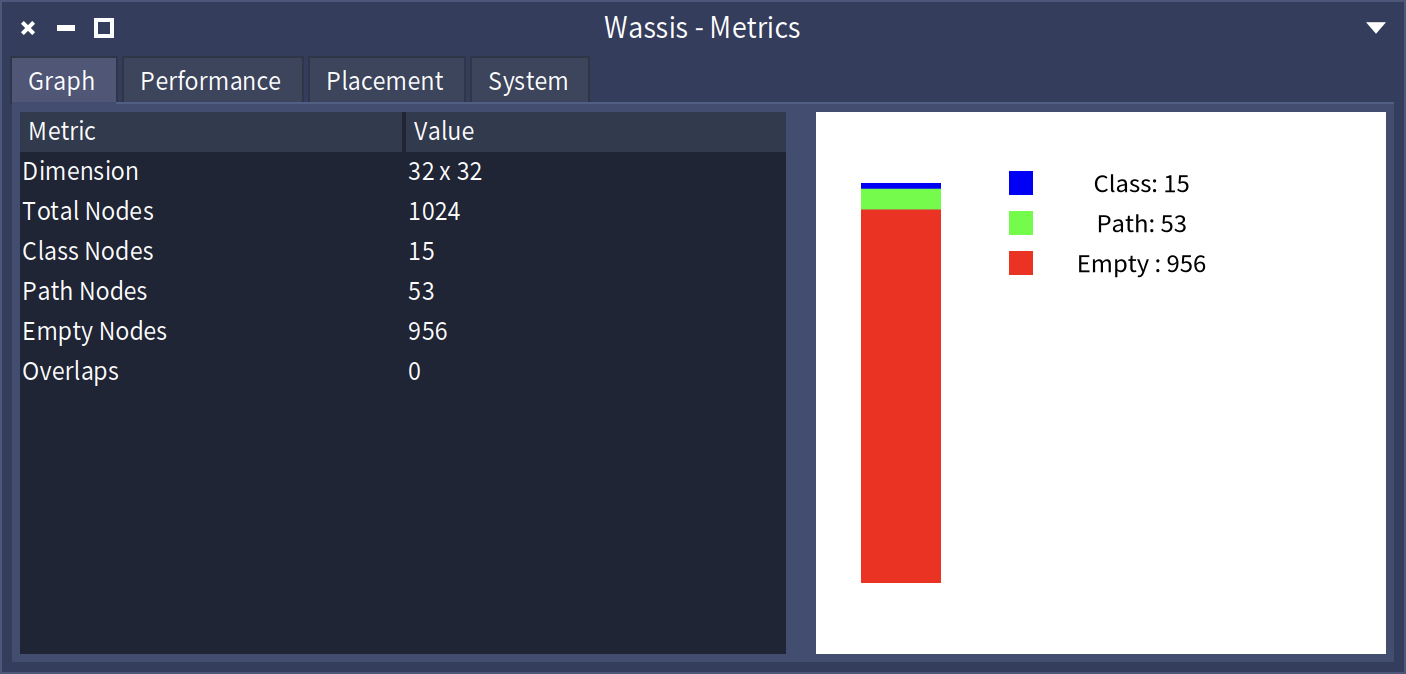
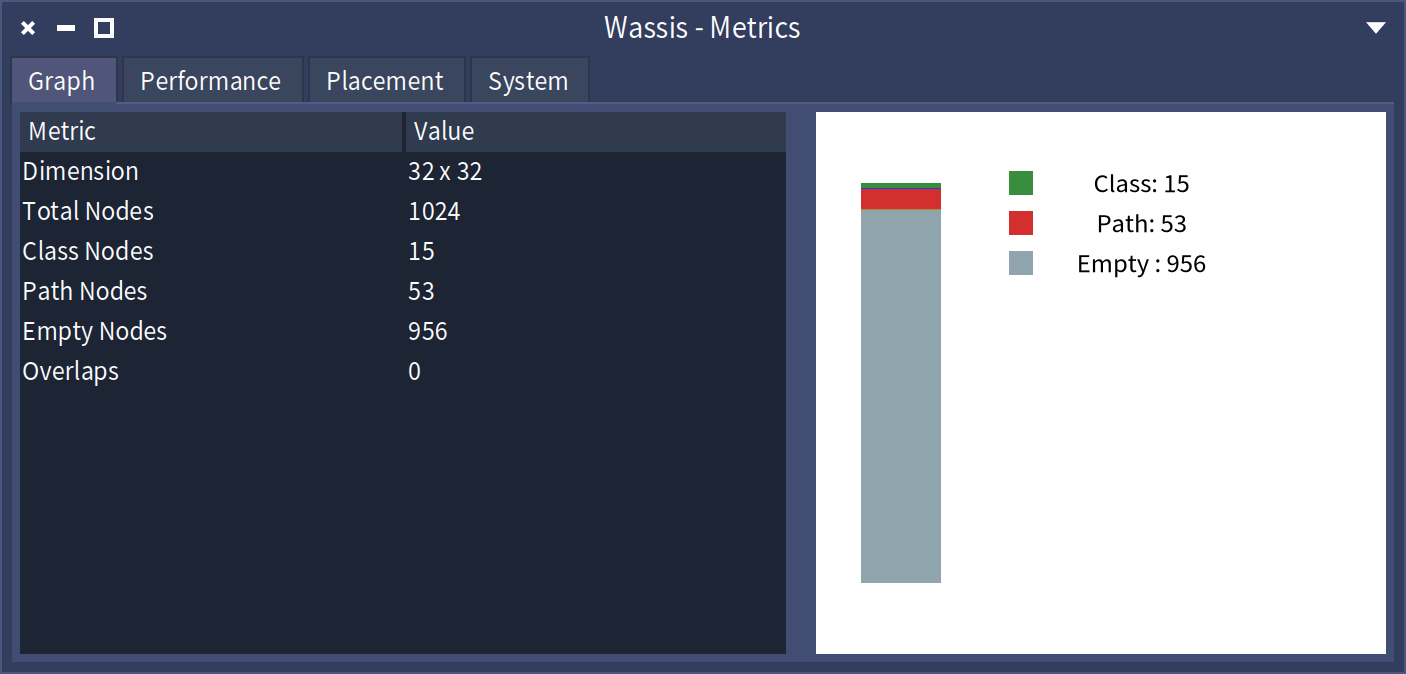
Fix: images

Changed region(s): [[0.6117, 0.2493, 0.6728, 0.8724], [0.7034, 0.2493, 0.734, 0.405]]

diff --git a/chapters/cha-implementation/tool.tex b/chapters/cha-implementation/tool.tex
@@ -78,46 +78,74 @@ The additional views include the step-by-step animation, the metrics dashboard, 
 
 \begin{figure}[ht]
     \centering
-    \begin{subfigure}[b]{0.48\textwidth}
-        \centering
-        \includegraphics[width=\textwidth]{figures/implementation/tool/graph_metrics}
-        \caption{Graph metrics panel.}
-        \label{fig:graph_metrics}
-    \end{subfigure}
-    \hfill
-    \begin{subfigure}[b]{0.48\textwidth}
-        \centering
-        \includegraphics[width=\textwidth]{figures/implementation/tool/performance_metrics}
-        \caption{Performance metrics panel.}
-        \label{fig:performance_metrics}
-    \end{subfigure}
-
-    \vspace{0.5cm}
-
-    \begin{subfigure}[b]{0.48\textwidth}
-        \centering
-        \includegraphics[width=\textwidth]{figures/implementation/tool/placement_metrics}
-        \caption{Placement metrics panel.}
-        \label{fig:placement_metrics}
-    \end{subfigure}
-    \hfill
-    \begin{subfigure}[b]{0.48\textwidth}
-        \centering
-        \includegraphics[width=\textwidth]{figures/implementation/tool/system_metrics}
-        \caption{System metrics panel.}
-        \label{fig:system_metrics}
-    \end{subfigure}
-    \caption{\wassis metrics dashboard panels.}
-    \label{fig:all_metrics}
+    \includegraphics[width=\textwidth]{figures/implementation/tool/graph_metrics}
+    \caption{Graph metrics panel.}
+    \label{fig:graph_metrics}
 \end{figure}
+
+\begin{figure}[ht]
+    \centering
+    \includegraphics[width=\textwidth]{figures/implementation/tool/performance_metrics}
+    \caption{Performance metrics panel.}
+    \label{fig:performance_metrics}
+\end{figure}
+
+\begin{figure}[ht]
+    \centering
+    \includegraphics[width=\textwidth]{figures/implementation/tool/placement_metrics}
+    \caption{Placement metrics panel.}
+    \label{fig:placement_metrics}
+\end{figure}
+
+\begin{figure}[ht]
+    \centering
+    \includegraphics[width=\textwidth]{figures/implementation/tool/system_metrics}
+    \caption{System metrics panel.}
+    \label{fig:system_metrics}
+\end{figure}
+
+% \begin{figure}[ht]
+%     \centering
+%     \begin{subfigure}[b]{0.48\textwidth}
+%         \centering
+%         \includegraphics[width=\textwidth]{figures/implementation/tool/graph_metrics}
+%         \caption{Graph metrics panel.}
+%         \label{fig:graph_metrics}
+%     \end{subfigure}
+%     \hfill
+%     \begin{subfigure}[b]{0.48\textwidth}
+%         \centering
+%         \includegraphics[width=\textwidth]{figures/implementation/tool/performance_metrics}
+%         \caption{Performance metrics panel.}
+%         \label{fig:performance_metrics}
+%     \end{subfigure}
+
+%     \vspace{0.5cm}
+
+%     \begin{subfigure}[b]{0.48\textwidth}
+%         \centering
+%         \includegraphics[width=\textwidth]{figures/implementation/tool/placement_metrics}
+%         \caption{Placement metrics panel.}
+%         \label{fig:placement_metrics}
+%     \end{subfigure}
+%     \hfill
+%     \begin{subfigure}[b]{0.48\textwidth}
+%         \centering
+%         \includegraphics[width=\textwidth]{figures/implementation/tool/system_metrics}
+%         \caption{System metrics panel.}
+%         \label{fig:system_metrics}
+%     \end{subfigure}
+%     \caption{\wassis metrics dashboard panels.}
+%     \label{fig:all_metrics}
+% \end{figure}
 
 \subsection{System Graph}
 The system can also be displayed using a force-directed graph (\figref{fig:classes_graph}) to compare this visualization with the one generated using \wassis.
 
 \begin{figure}[ht]
     \centering
-    \includegraphics[width=0.4\textwidth]{figures/implementation/tool/classes_graph}
-    \caption{Force-direct graph of the system. \SL{Aggiorna con i colori}}
+    \includegraphics[width=0.8\textwidth]{figures/implementation/tool/classes_graph}
+    \caption{Force-direct graph of the system.}
     \label{fig:classes_graph}
 \end{figure}
 
